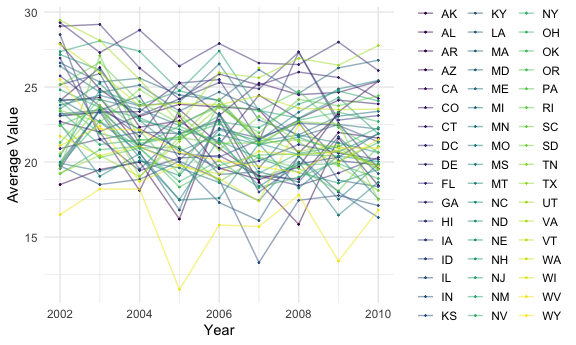
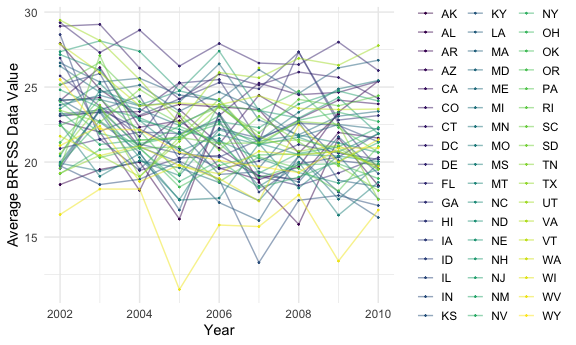
Final Draft (I had to make new repository due to a long story issue. I talked about this with professor ).

Changed region(s): [[0.0, 0.1739, 0.0312, 0.7246]]

diff --git a/p8105_hw3_sl4836.md b/p8105_hw3_sl4836.md
@@ -213,7 +213,7 @@ hour. For Pink Lady Apples, Day 3 has the longest mean hour whereas Day
 data("brfss_smart2010") 
 ```
 
-### Problem 2\_(a)\_Data\_Cleaning
+### Problem 2\_(a)\_Data\_tidying & wrangling
 
 ``` r
 brfss <- brfss_smart2010 
@@ -227,11 +227,36 @@ brfss_clean <- brfss %>%
   mutate(response = as.factor(response) %>% 
            fct_relevel("Poor", "Fair", "Good", "Very good",
                        "Excellent")) 
+
+brfss_row <- 
+  brfss %>% 
+  nrow()
+brfss_col <- 
+  brfss %>% 
+  ncol()
+brfss_names <-
+  brfss %>% 
+  names()
+
+brfss_clean_row <- 
+  brfss_clean %>% 
+  nrow()
+brfss_clean_col <- 
+  brfss_clean %>% 
+  ncol()
+brfss_clean_names <- 
+  brfss_clean %>% 
+  names()
 ```
 
 After filtering Overall Health level solely from Topic variable, I
 included responses from Excellent to Poor. And then I re-leveled the
 response variable from Poor to Excellent.
+
+Originally, the size of the dataset is **134203 x** **23.** And there
+are **23** variables and **134203** observations. After tidying and
+wrangling the original data, the size of the dataset is **10625 x**
+**23.** And there are **23** variables and **10625** observations.
 
 ### Problem 2\_(b)\_Showing States observed at 7 or more observations in 2002
 
@@ -309,7 +334,7 @@ brfss_clean %>%
   ggplot(aes(year, mean_data_value, color=States)) + 
   geom_point(size=0.2) + 
   geom_line(aes(group=States), alpha=0.5) +
-  labs(y = "Average Value", x = "Year") +
+  labs(y = "Average BRFSS Data Value", x = "Year") +
   theme(legend.position = "right", legend.title =
           element_text(colour="black", size=10, face="bold"), 
         legend.key.size = unit(0.5, 'cm')) 
@@ -318,8 +343,10 @@ brfss_clean %>%
 <img src="p8105_hw3_sl4836_files/figure-gfm/unnamed-chunk-13-1.png" width="90%" />
 
 This is a spaghetti plot that shows a line of the average BRFSS data
-value over time within a state from 2002 to 2010. It appears that the
-average values are relatively high in 2002 across states.
+value over time within a state from 2002 to 2010. It’s hard to say if
+there are apparent trends across states between 2002 and 2010. One thing
+to be observed is that the average BRFSS data values of the states are
+relatively high in 2002.
 
 ### Problem 2\_(d)\_Making the distribution of BRFSS data\_value for responses in 2006 and 2010
 
